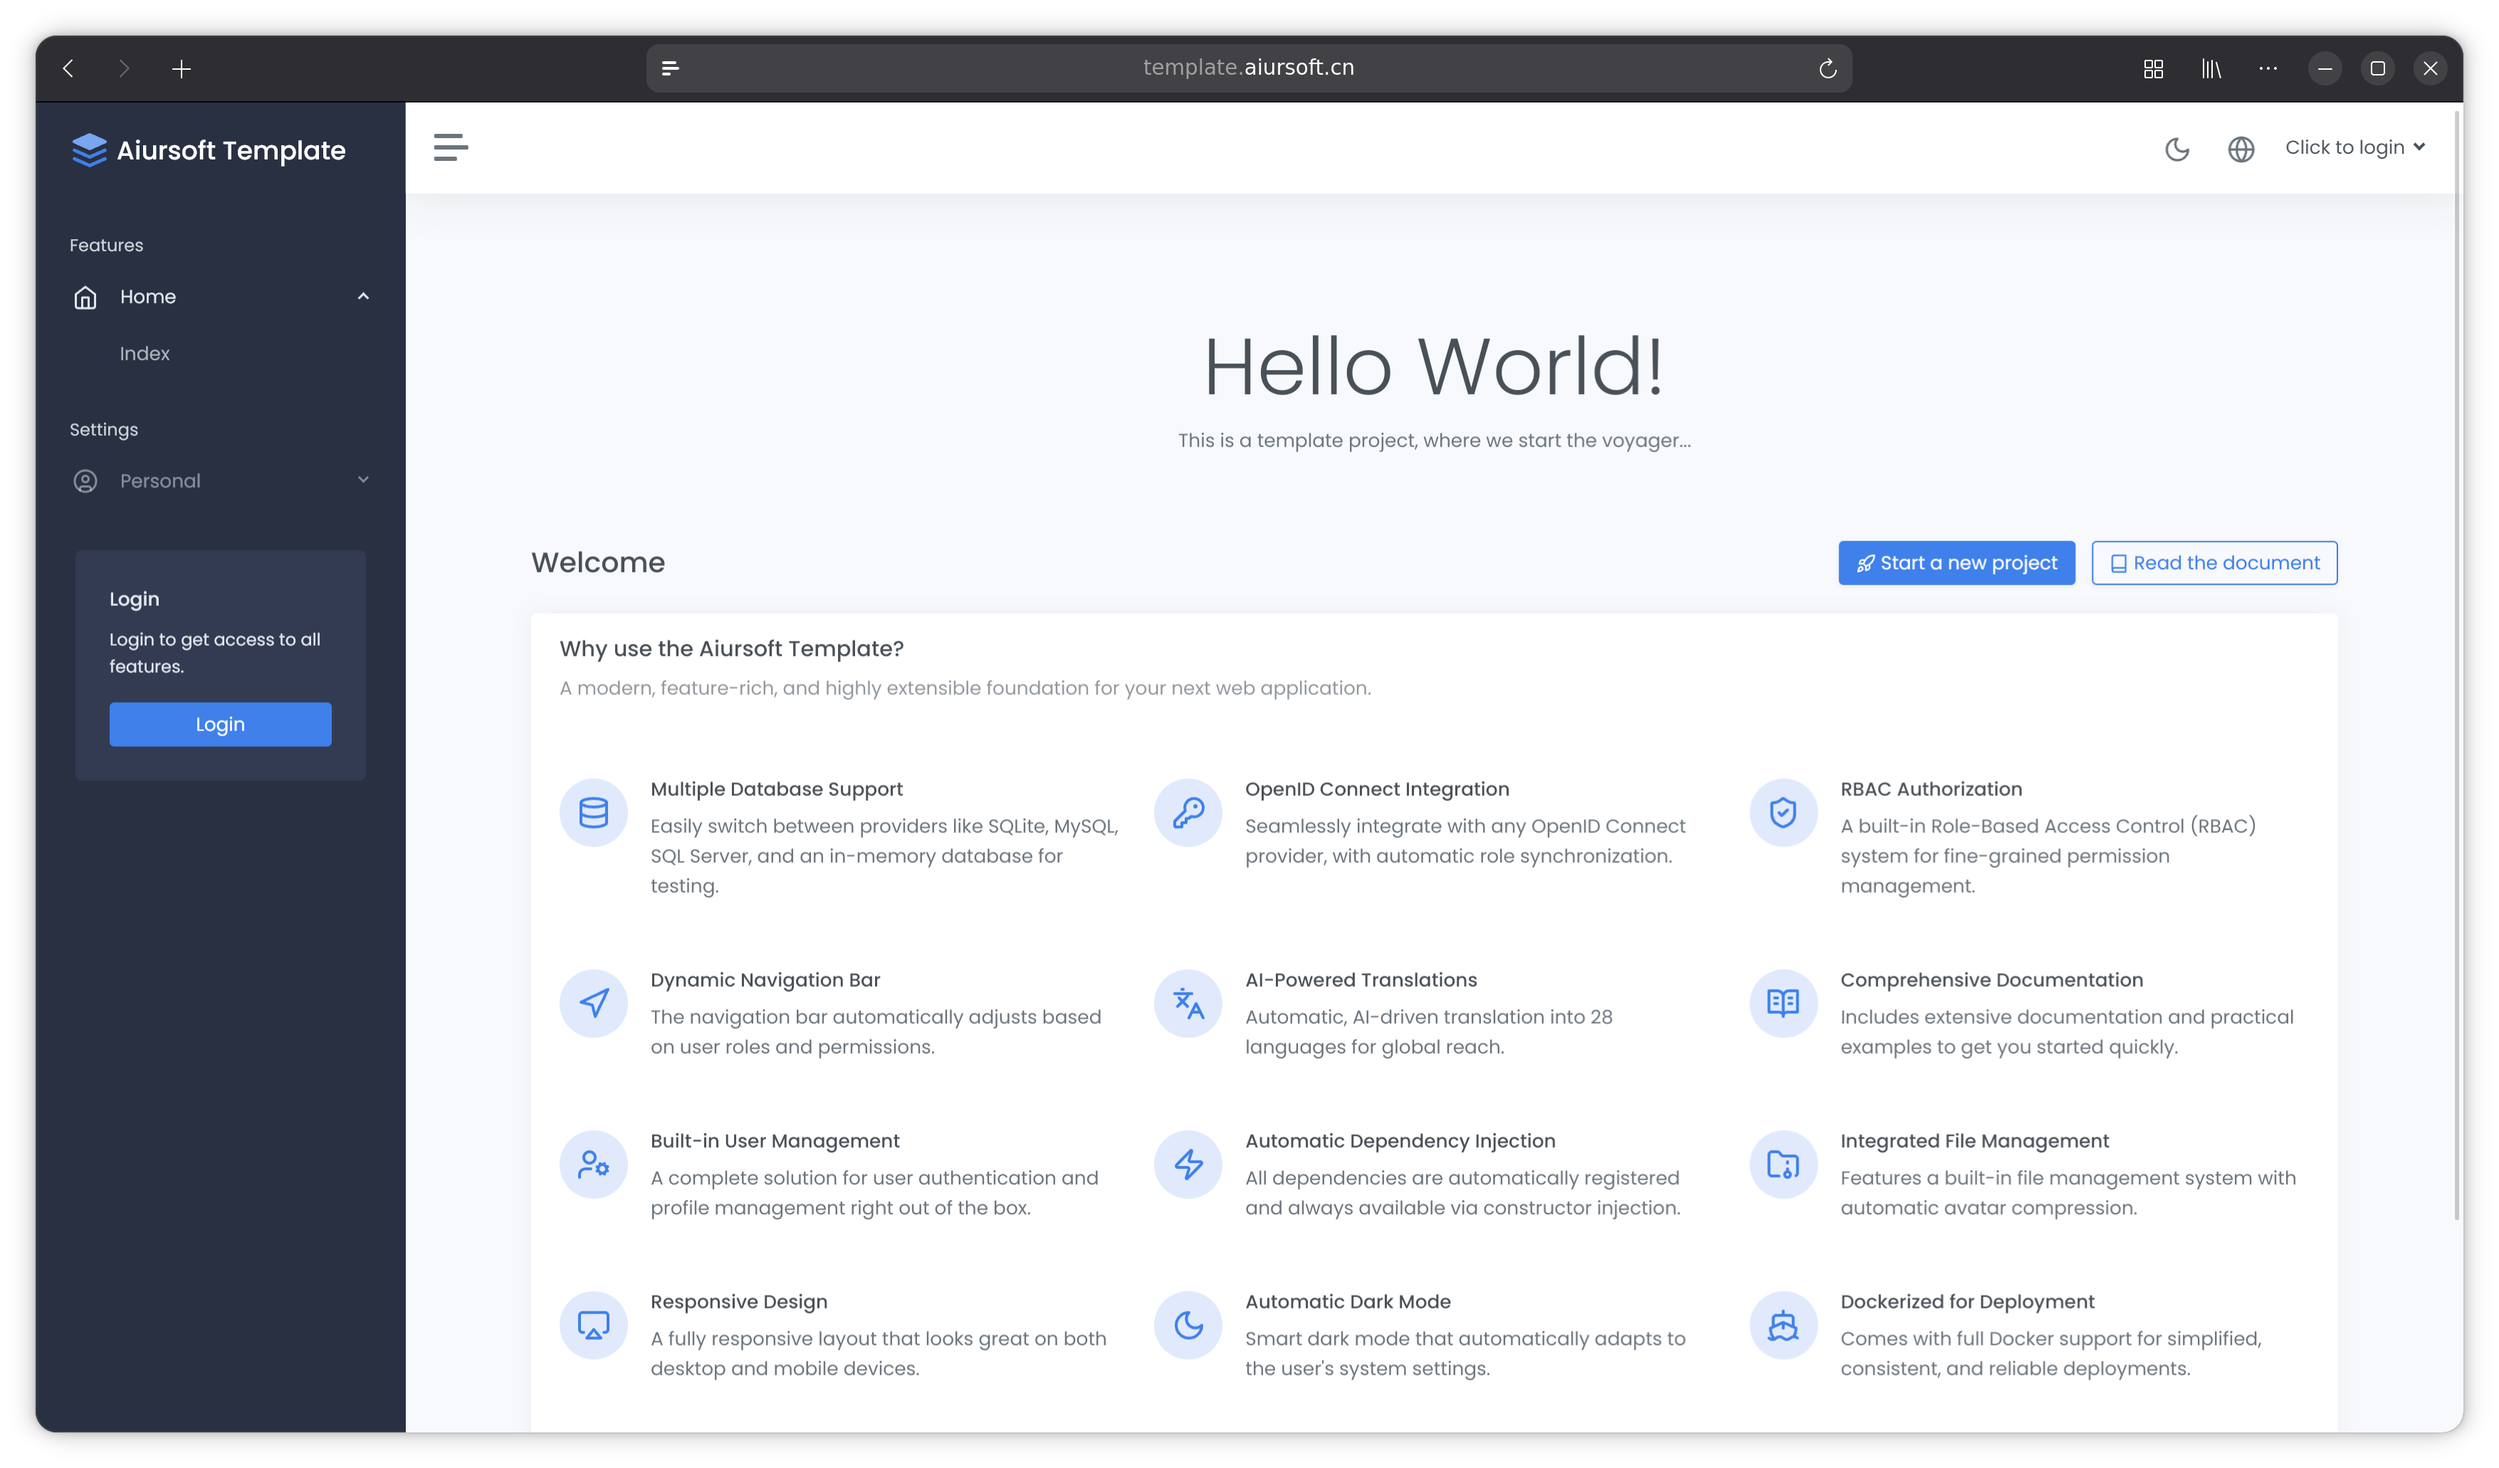
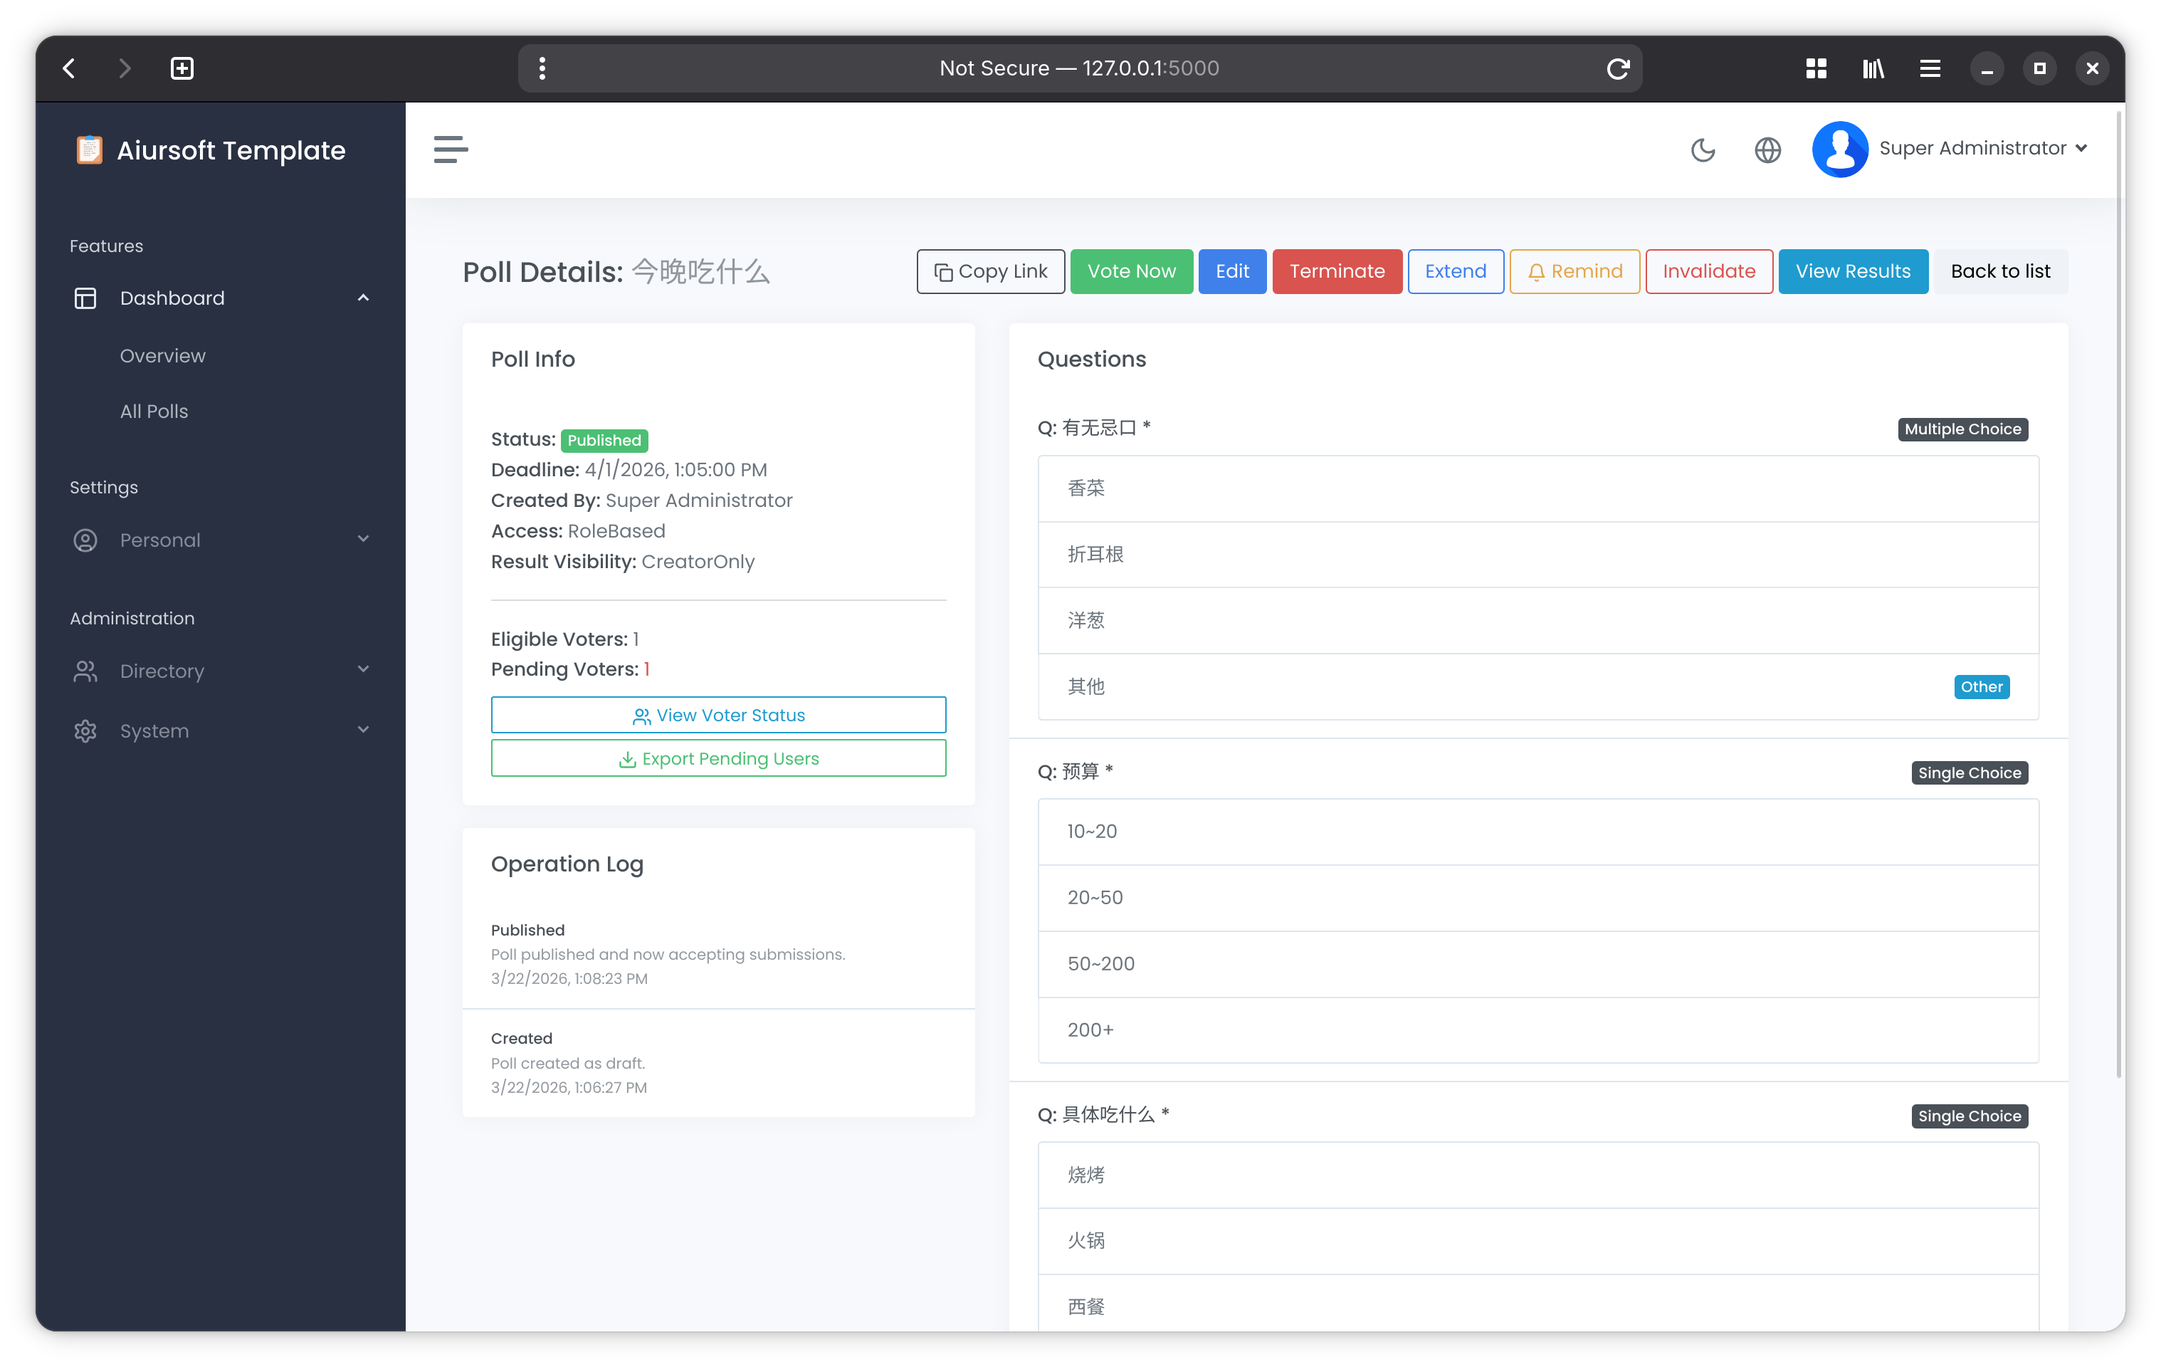
fix readme

diff --git a/README.md b/README.md
@@ -7,25 +7,11 @@
 [![Website](https://img.shields.io/website?url=https%3A%2F%2Fpolls.aiursoft.com)](https://polls.aiursoft.com)
 [![Docker](https://img.shields.io/docker/pulls/aiursoft/polls.svg)](https://hub.docker.com/r/aiursoft/polls)
 
-Polls is a sample project.
+Aiursoft Polls is an enterprise-level, comprehensive voting and survey management system built on ASP.NET Core (.NET 10). It provides organizations with a secure and flexible platform for collecting, managing, and analyzing participant responses.
 
 ![screenshot](./screenshot.png)
 
 Default user name is `admin@default.com` and default password is `admin123`.
-
-## Projects using Aiursoft Polls
-
-* [Stathub](https://gitlab.aiursoft.com/aiursoft/stathub)
-* [MarkToHtml](https://gitlab.aiursoft.com/aiursoft/marktohtml)
-* [MusicTools](https://gitlab.aiursoft.com/aiursoft/musictools)
-* [AnduinOS Home](https://gitlab.aiursoft.com/anduin/AnduinOS-Home)
-* [Manhours](https://gitlab.aiursoft.com/aiursoft/manhours)
-* [Tracer](https://gitlab.aiursoft.com/aiursoft/tracer)
-* [Warp](https://gitlab.aiursoft.com/aiursoft/warp)
-* [AiurDrive](https://gitlab.aiursoft.com/aiursoft/aiurdrive)
-* [EmployeeCenter](https://gitlab.aiursoft.com/aiursoft/employeecenter)
-* [GitMirrorServer](https://gitlab.aiursoft.com/aiursoft/gitmirrorserver)
-* [CppRunner](https://gitlab.aiursoft.com/aiursoft/cpprunner)
 
 ## Try
 
